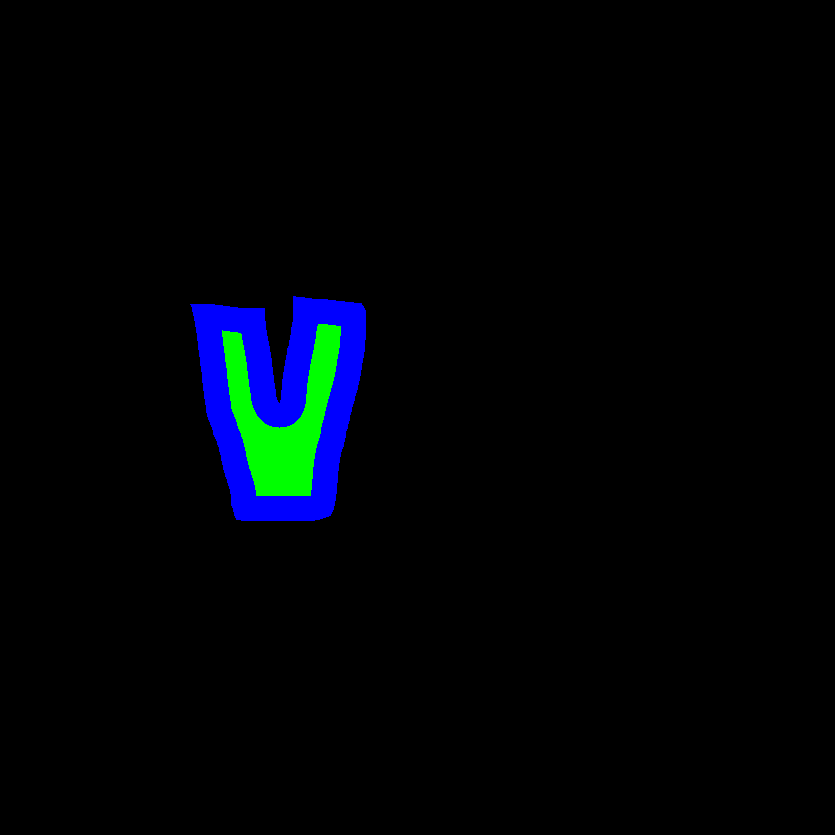
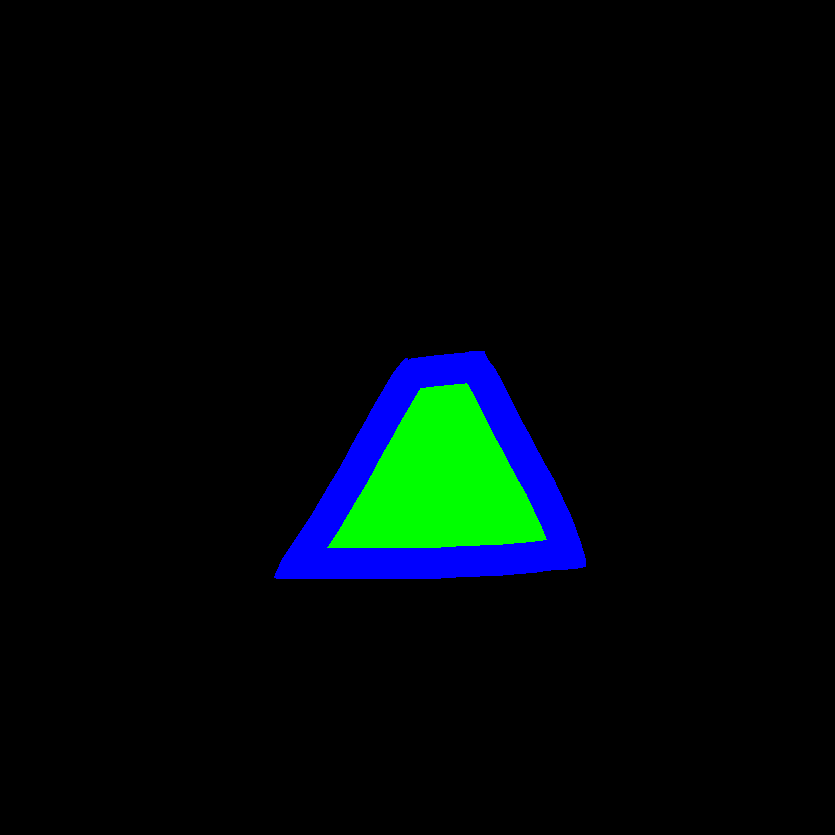
没问题了

Changed region(s): [[0.218, 0.3425, 0.7162, 0.7162]]

diff --git a/client/src/stores/animation.ts b/client/src/stores/animation.ts
@@ -62,7 +62,8 @@ export const useAnimationStore = defineStore('animation', {
       this.replaying = false
       this.hoverAttr = null
       this.hoverData = null
-      
+      this.now_overview_idx = 0
+      this.totalOverview = 0
     },
     stopReplay() {
       clearInterval(this.replayTimer);
@@ -81,6 +82,7 @@ export const useAnimationStore = defineStore('animation', {
       this.angleArray = []
       this.now_collage_idx = 0
       this.now_start_idx = 0
+      this.now_overview_idx = 0
     },
     removeAnimation() {
       if (this.markerAni) {
@@ -319,10 +321,17 @@ export const useAnimationStore = defineStore('animation', {
       this.resetReplayData()
       this.replayTimer = setInterval(() => {
         const now_collage = this.progress_data[this.replayIdx].now_collage;
-        console.log(now_collage,this.now_collage_idx)
+        const now_overview = this.progress_data[this.replayIdx].now_overview_idx;
+        this.process_id = this.progress_data[this.replayIdx].process_id;
+        this.collage_result_type = this.progress_data[this.replayIdx].collage_result_type;
+        if (now_overview != this.now_overview_idx && this.now_overview_idx != this.totalOverview - 1) {
+          console.log('nextOverview')
+          this.nextOverview()
+          return
+        }
         if (now_collage != this.now_collage_idx) {//进入下一个collage
           console.log('4')
-          this.now_start_idx = this.now_start_idx = this.elements.length
+          this.now_start_idx = this.elements.length
           this.setReplayData(this.replayIdx, now_collage, this.now_start_idx)
           for (let i = this.now_start_idx; i < this.posArray.length; i++) {
             const raster = new paper.Raster({
@@ -359,7 +368,7 @@ export const useAnimationStore = defineStore('animation', {
           }
           this.now_collage_idx = now_collage
         }
-        else if (this.replayIdx === 0) {
+        else if (this.elements.length === 0) {
           console.log('5')
           this.setReplayData(this.replayIdx, now_collage, 0)
           for (let i = 0; i < this.posArray.length; i++) {
@@ -397,7 +406,7 @@ export const useAnimationStore = defineStore('animation', {
           }
 
         }
-        else if (this.replayIdx > 0) {
+        else if (this.elements.length > 0) {
           console.log('6')
           this.setReplayData(this.replayIdx, now_collage, this.now_start_idx)
           for (let i = this.now_start_idx; i < this.elements.length; i++) {//这里先set好数据

diff --git a/client/src/composables/server.ts b/client/src/composables/server.ts
@@ -295,15 +295,16 @@ function processDataBinding(tempCanvas: Canvas) {
 // 轮询处理状态的函数
 async function startProgressTimer() {
   const animationStore = useAnimationStore()
-  const { process_id, progress_data, result_data,totalOverview,now_overview_idx } = storeToRefs(animationStore)
+  const { process_id, progress_data, result_data ,now_overview_idx, collage_result_type } = storeToRefs(animationStore)
   try {
     const response = await fetch('http://localhost:5000/fetchProgressApi?id=' + process_id.value)
     if (response.ok) {
       // 解析 JSON 响应
       const result = await response.json()
       if (result.progress) {
-        result.progress["now_overview_idx"] = now_overview_idx
-        result.progress["totalOverview"] = totalOverview
+        result.progress["now_overview_idx"] = now_overview_idx.value
+        result.progress["process_id"] = process_id.value
+        result.progress["collage_result_type"] = collage_result_type.value
         progress_data.value.push(result.progress)
         result_data.value.push(result.result)
         animationStore.updateAnimation()

diff --git a/client/src/components/Header.vue b/client/src/components/Header.vue
@@ -24,12 +24,11 @@ watch(progress, (newProgress) => {
     const steps = newProgress.steps
     const now_collage = newProgress.now_collage
     const total_collage = newProgress.total_collage
-    const now_overview = newProgress.now_overview_idx
-    const total_overview = newProgress.totalOverview
+    const now_overview = newProgress.now_overview_idx 
     
     if (totalsteps > 0 && total_collage > 0) {
       const currentTypeProgress = steps / totalsteps
-      percentage.value = ((now_collage + currentTypeProgress / 2 + 1 / 2 * type) / total_collage) * 100 * (now_overview+1) / total_overview
+      percentage.value = ((now_collage + currentTypeProgress / 2 + 1 / 2 * type) / total_collage) * 100 * (now_overview+1) / totalOverview.value
       // 确保百分比在0-100之间
       percentage.value = Math.min(Math.max(percentage.value, 0), 100)
     }